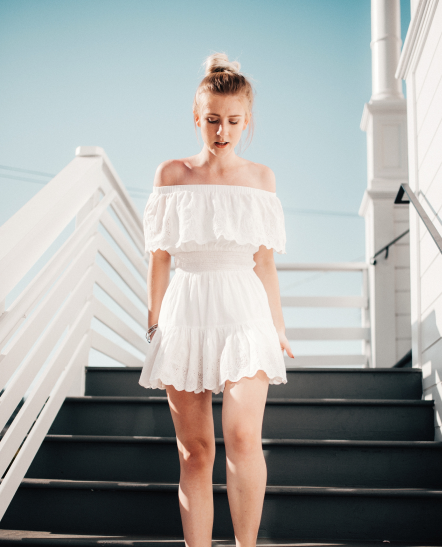
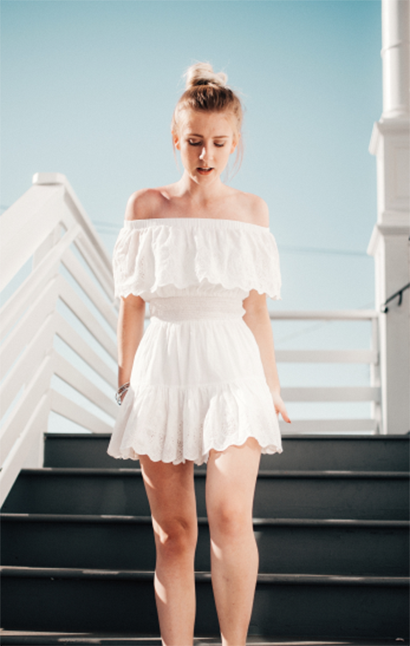
fix: исправить поведение двойного слайдера на большом экране

diff --git a/assets/css/index.css b/assets/css/index.css
@@ -1,9 +1,34 @@
+/*Стили большого экрана пропишем в переменных.
+Для адаптивной вёрстки переопределим их в @media*/
 :root {
+    /*Высота заголовка привязана к ширине экрана*/
+    --h1-font-size: 3.5vw;
+
+    /*Переменные габаритов боковой панели. Декоративные функции.*/
     --aside-height: 80vh;
-    /*Для широких экранов*/
     --aside-width: 42vw;
+
+    /*-------------------------------*/
+    /*Переменные габаритов  слайдера*/
+
+    /*Смещение слайдера относительно панели навигации*/
+    --slider-shift-top: 40px;
+    /*Ширина контейнера с текстом-описанием слайдера*/
+    --slider-content-info-width: 70%;
+    /*Абсолютный сдвиг высоты изображения относительно высоты декоративной панели.
+    Чем больше сдвиг, тем меньше изображение (больше расстояние до границ декоративной панели)*/
+    --img-height-shift: 200px;
+    /*Ширина слайдера с изображением*/
+    --img-slider-container-width: 50%;
+    /*Ширина слайдера с текстом*/
+    --text-slider-container-width: 50%;
+
 }
 
+
+h1 {
+    font-size: var(--h1-font-size);
+}
 
 aside {
     z-index: 0;
@@ -21,16 +46,18 @@ aside {
 
 .two-sliders-container {
     position: relative;
+    top: var(--slider-shift-top);
     width: 100%;
-    height: calc(var(--aside-height) - 150px);
     display: flex;
     justify-content: center;
+    align-items: center;
 }
 
 .text-slider-container {
-    width: 50%;
+    width: var(--text-slider-container-width);
     flex-grow: 0;
     flex-shrink: 1;
+
 }
 
 
@@ -41,12 +68,24 @@ aside {
 }
 
 .text-slider-content-info {
-    width: 70%;
+    width: var(--slider-content-info-width);
     font-size: 20px;
     text-align: right;
 }
 
 
 .img-slider-container {
-    width: 50%;
+    width: var(--img-slider-container-width);
+}
+
+.img-slider-contant {
+    text-align: right;
+    float: right;
+}
+
+.img-slider-contant img {
+    object-fit: contain;
+    max-height: calc(var(--aside-height) - var(--img-height-shift));
+    width: 100%;
+
 }

diff --git a/index.html b/index.html
@@ -152,19 +152,19 @@ https://www.figma.com/file/OFNh7sSivQKwPRV4hBv8Yi/WOMAZING-%2B?node-id=0-1&t=DCg
                         <div class="itc-slider__item">
                             <!-- Контент 1 слайда -->
                             <div class="img-slider-contant">
-                                <!-- <img src="assets/img/dmitriy-7DD6tfTKqS4-unsplash-1.jpg"> -->
+                                <img src="assets/img/slider-1.jpg">
                             </div>
                         </div>
                         <div class="itc-slider__item">
                             <!-- Контент 2 слайда -->
                             <div class="img-slider-contant">
-                                <!-- <img src="assets/img/gbarkz-vqKnuG8GaQc.png">-->
+                                <img src="assets/img/slider-2.png">
                             </div>
                         </div>
                         <div class="itc-slider__item">
                             <!-- Контент 3 слайда -->
                             <div class="img-slider-contant">
-                                <!--  <img src="assets/img/sonnie-hiles-gG70fyu3qsg.jpg">-->
+                                <img src="assets/img/slider-3.jpg">
                             </div>
                         </div>
                     </div>

diff --git a/assets/css/navigation.css b/assets/css/navigation.css
@@ -181,11 +181,8 @@ nav a:hover {
     .nav-bar {
         grid-template-columns: 55px 1fr 55px 1fr 55px 1fr 55px;
         justify-self: normal;
+
     }
-}
-
-
-@media screen and (max-width: 1000px) {
 
     /*Контрольная точка, при которой поля body становятся маленькими и динамичными*/
     body {
@@ -193,8 +190,9 @@ nav a:hover {
         padding-left: 3vw;
         padding-right: 3vw;
     }
-
 }
+
+
 
 @media screen and (max-width: 720px) {
 
